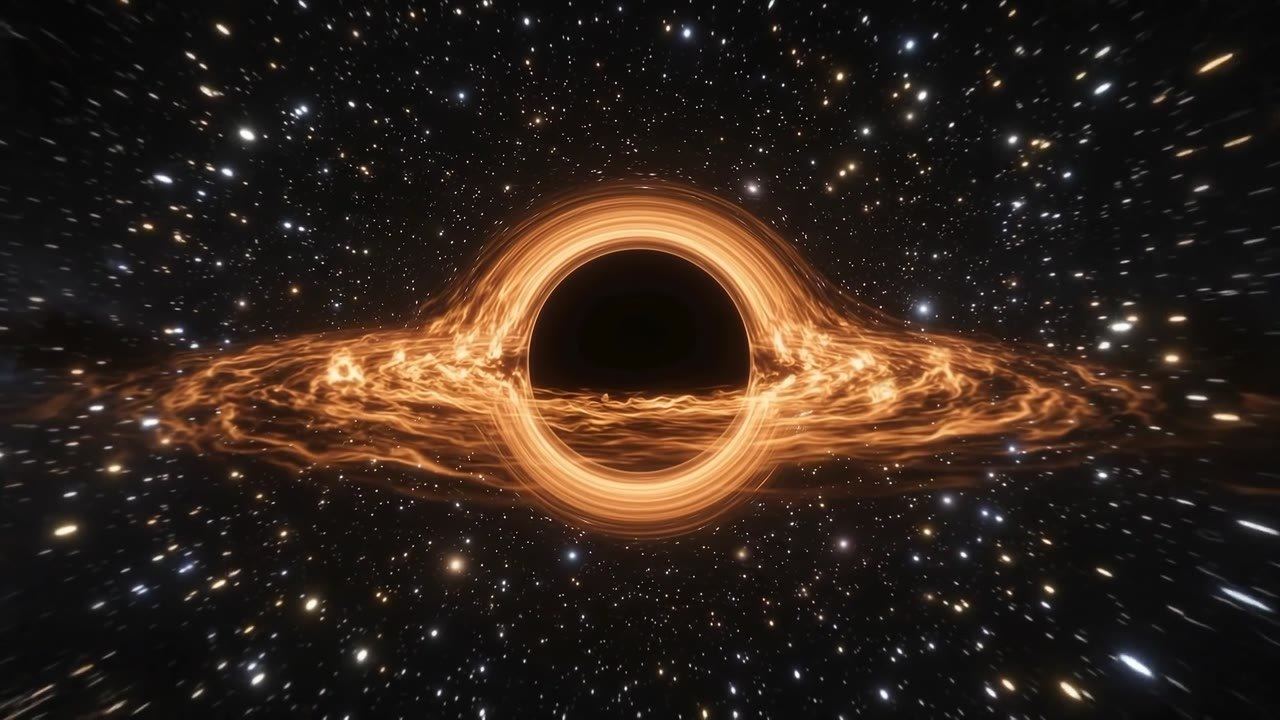
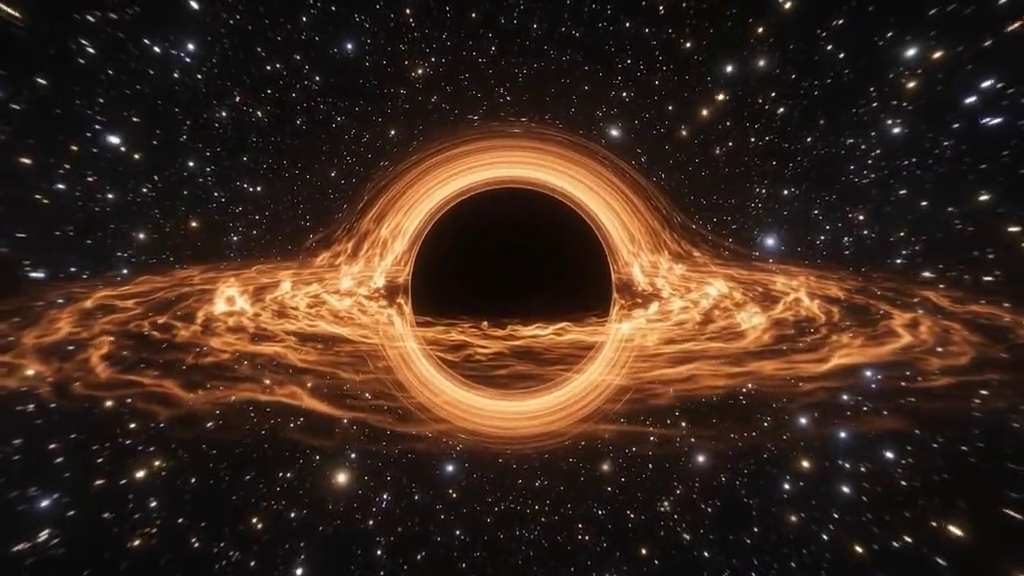
perf(hero): achicar el poster del LCP (137 KB -> 57 KB)
hero-gargantua.jpg pasa de 1280x720 a 1024x576 (= el tamano del video) y
compresion q56. PageSpeed marcaba el poster como elemento LCP con ~94 KB de
ahorro posible. Detras del filtro de oscurecimiento + el titulo, sin
diferencia visible. Mismo nombre y formato (JPEG) -> sin cambios en
creditos.js ni tests.

diff --git a/interstellar/assets/img/CREDITOS.md b/interstellar/assets/img/CREDITOS.md
@@ -115,7 +115,7 @@ catálogo en la columna "Fuente").
 - **Fondo del Hero — video (2026-08-31)**: el backdrop de `index.html` es un `<video>` mudo en loop
   (`hero-fondo.webm` 2,18 MB / `hero-fondo.mp4` 2,12 MB, 1024x576, ~36 s: push-in lento al
   agujero negro -> negro total -> punto de luz -> galaxia (Andromeda) -> fulgor calido suave ->
-  vuelta, loop sin corte) con `poster` `hero-gargantua.jpg` (137 KB, frame del propio video).
+  vuelta, loop sin corte) con `poster` `hero-gargantua.jpg` (57 KB, 1024x576, frame del propio video; era 137 KB / 1280x720, se achico para el LCP).
   Armado con ffmpeg de 3 clips del autor (video_inicio + clip_2 galaxia + clip_3 fulgor, este ultimo
   con highlights bajados ~35%) + reverse del primero para cerrar el loop. VP9 crf44 / H264 crf32, sin audio.
   `js/layout.js` no lo reproduce si hay `prefers-reduced-motion: reduce` -> queda el poster fijo.
